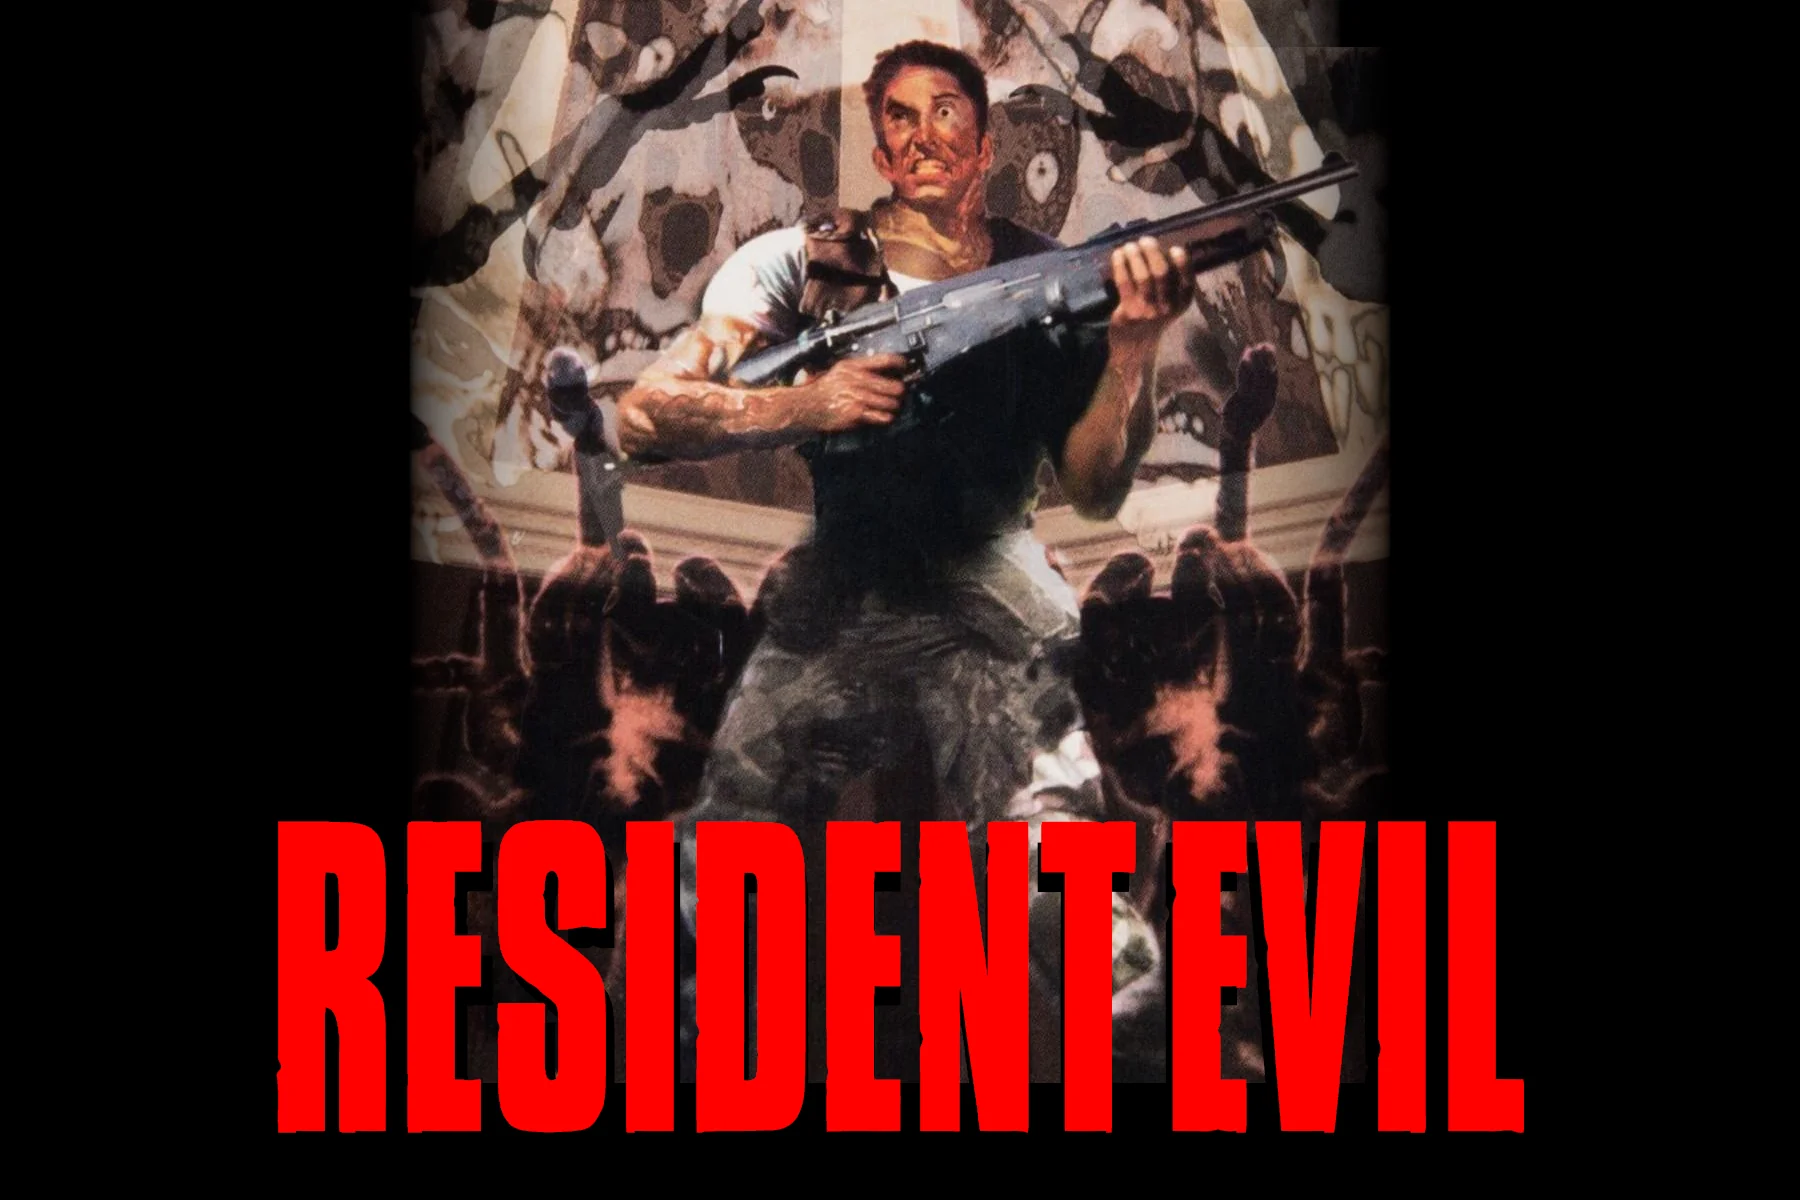
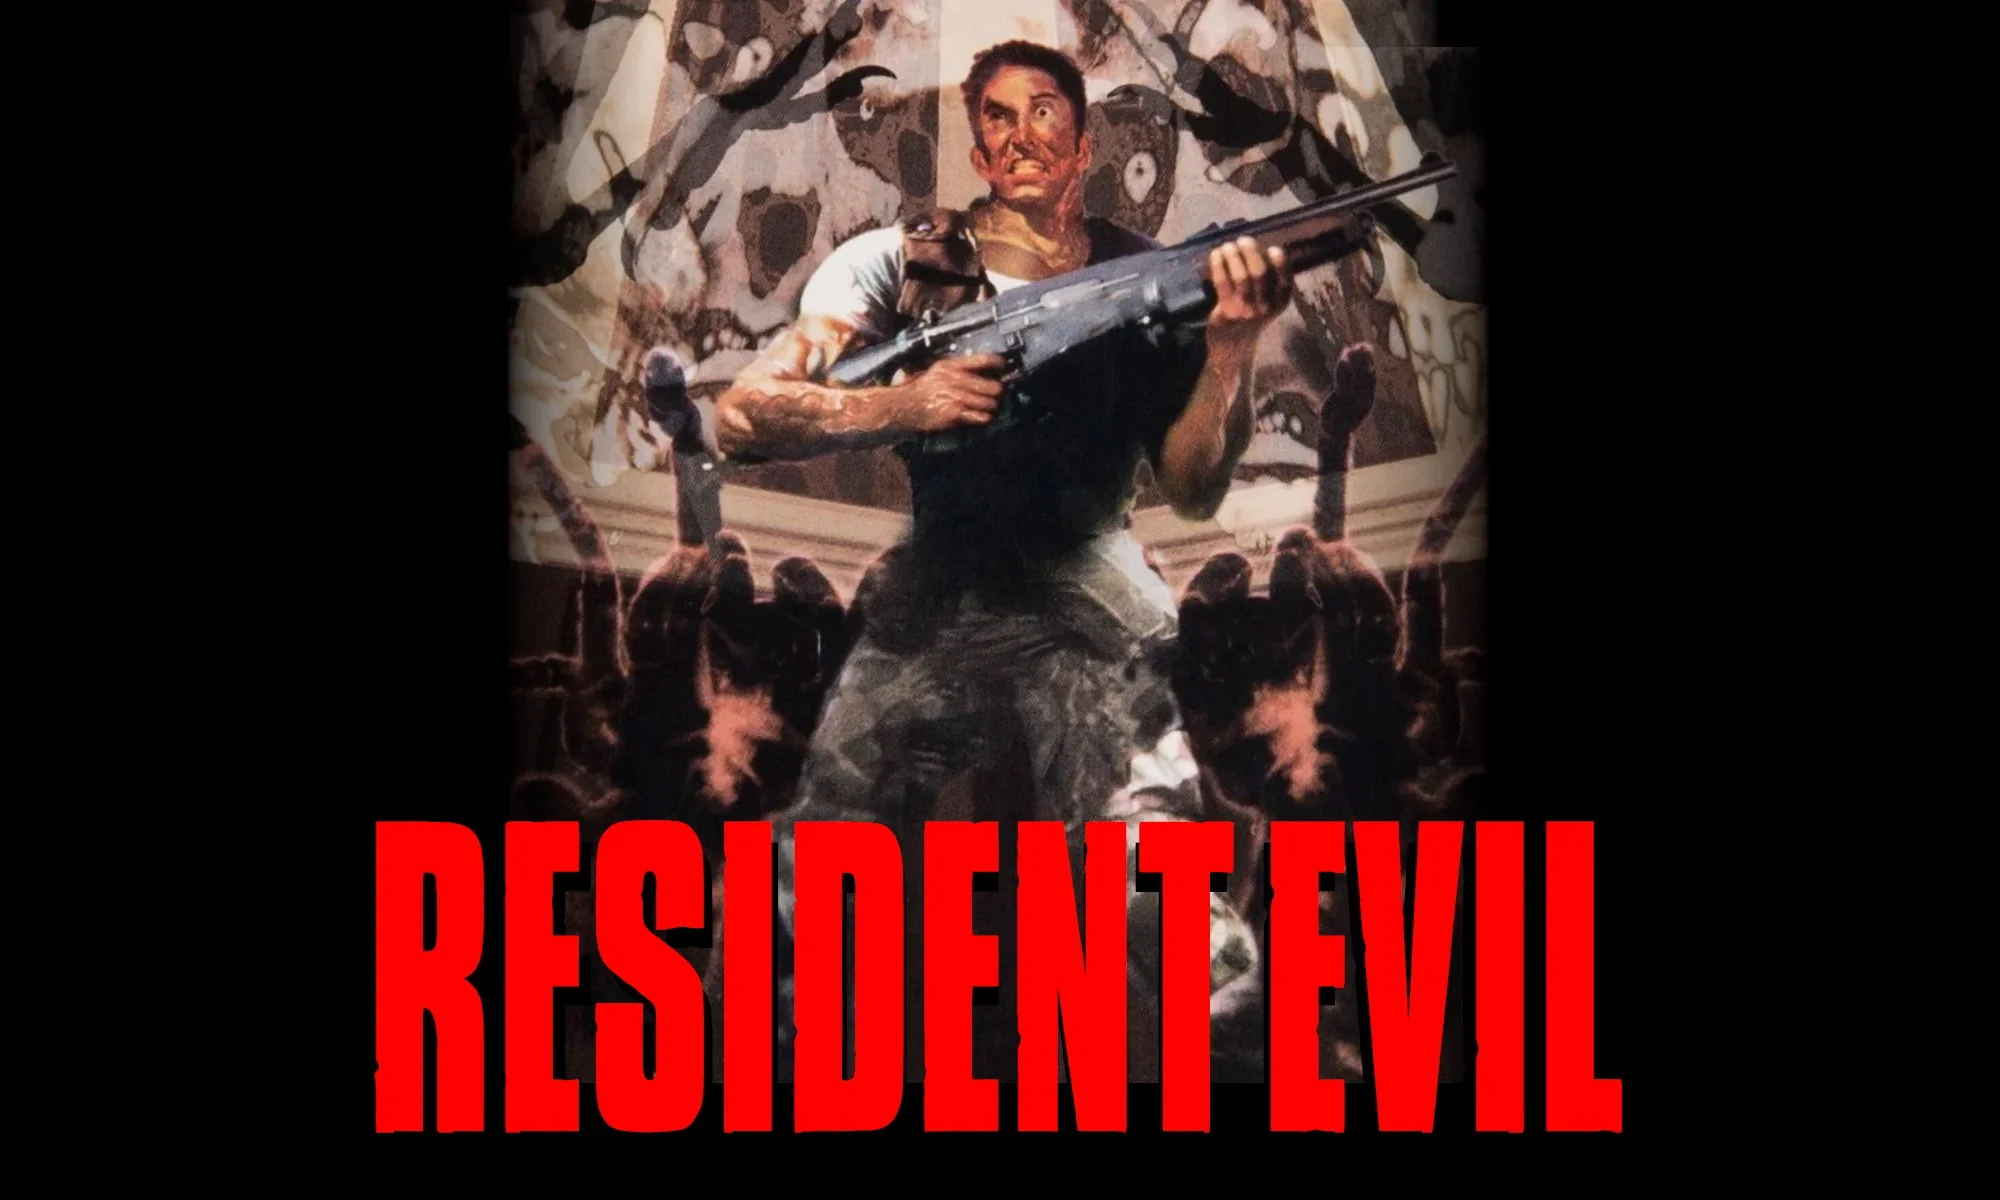
updated openring, added thumbnail

Changed region(s): [[0.1556, 0.0, 0.8711, 0.9558]]

diff --git a/_includes/out.html b/_includes/out.html
@@ -4,6 +4,15 @@
     
     <li class="post">
         <span class="post-title">
+		<a href="https://robert.winter.ink/hiring-a-200-hammer/" target="_blank" rel="noopener">Hiring a $200 Hammer</a><br>
+          <span class="post-author">via Dr Robert N. Winter</span>
+        </span>
+	<span class="post-date"><time datetime="2026-04-13 07:30:34 &#43;0000 GMT">Apr 13</time></span>
+    </li>
+    
+    
+    <li class="post">
+        <span class="post-title">
 		<a href="https://benjaminhollon.com/weeknotes/2026-W15/" target="_blank" rel="noopener">Weeknotes: W15, 2026</a><br>
           <span class="post-author">via Benjamin Hollon</span>
         </span>
@@ -26,15 +35,6 @@
           <span class="post-author">via Discard Pile</span>
         </span>
 	<span class="post-date"><time datetime="2026-04-12 17:34:17 &#43;0000 UTC">Apr 12</time></span>
-    </li>
-    
-    
-    <li class="post">
-        <span class="post-title">
-		<a href="https://kevquirk.com/adding-a-book-editor-to-my-pure-blog-site" target="_blank" rel="noopener">Adding a Book Editor to My Pure Blog Site</a><br>
-          <span class="post-author">via Kev Quirk</span>
-        </span>
-	<span class="post-date"><time datetime="2026-04-12 14:08:00 &#43;0100 &#43;0100">Apr 12</time></span>
     </li>
     
     

diff --git a/_posts/2026-04-12-resident-evil.md b/_posts/2026-04-12-resident-evil.md
@@ -1,30 +1,32 @@
 ---
 title: Resident Evil (1996)
 header: Resident Evil (1996)
-description: My review for the mother of the Survival Horror genre
+description: My review for the game that brought the Survival Horror genre to the spotlight, kickstarting one of gaming's most iconic franchises.
 tags: review game
 permalink: /blog/resident-evil/
 layout: post
 date: 2026-04-12 22:50:00 -0600
+updated: 2026-04-13 05:50:00 -0600
 host: fosstodon.org
 username: joel
 com_id: 116395706084146606
+image: 'assets/img/blogs/2026-04-12-re1-cover.webp'
 ---
 
 A game originally released in 1996, the first to ever use the term "survival horror" to refer to itself. This is was the entryway for a whole generation into a genre that has continued to be relevant to this day, thanks to the franchise's return to its roots, from RE7 to the remakes, and its latest title, Resident Evil Requiem.
 
 When I played [RE2](/blog/resident-evil-2/), I thought going to the original may be kind of a drag, that I would have more difficulty getting used to it, that it would be clumsier, unfair, and outdated.
 
-I heard everywhere that *Resident Evil* for the PS1 was not worth playing when the Remake for it---originally released on the Game Cube---exists. Most people said it was too archaic and not fun at all in comparison.
+I heard everywhere that *Resident Evil* for the PS1 was not worth playing when the Remake for it---originally released on the Game Cube---exists. Most people said it was too archaic and not as fun in comparison.
 
 That was not my experience at all.
 
 You should be aware though, that I'm someone who---thanks to the sequel---is completely on board with prerrendered backgrounds, fixed camera angles and tank controls. I completed RE2 and have never even touched RE4 or anything after it. So, giving this game a try for the first time, I have to say I had a great time, so, here's my review for it!
 
-{% include img.html image='/assets/img/blogs/2026-04-12-re1-cover.png' caption='Artwork from the game cover' %}
+{% include img.html image='/assets/img/blogs/2026-04-12-re1-cover.webp' caption='Artwork from the game cover' %}
 
 
-Everyone is aware of the Zombie-apocalypse trope by now, popularized in the late 60s by Romero's *Night of the Living Dead*---a fantastic film that holds up well even today---which became franchise that explored different facets of the idea.
+Everyone is aware of the Zombie-apocalypse trope by now, popularized in the late 60s by Romero's *Night of the Living Dead*---a fantastic film that holds up well even today---which became a franchise of its own, and explored different facets of the idea.
 
 Those films inspired and changed the landscape in the industry. The film took itself seriously, and it showed. Watching the original, during that [news report explaining the situation](https://youtu.be/aTPhSbn1yNM) with that monotonous news presenter voice so common at the time, the challenge the characters faced was made clear. When the story continued and that ending sequence happened, I could only watch as history was made in cinema.
 
@@ -32,7 +34,7 @@ However, not every horror movie gets to be *Night of the Living Dead*. Even the 
 
 My native language is Spanish, words like "camp" weren't really in my vocabulary for most of my youth. But once you learn what they mean, you just know it when you see it. 
 
-This game pretty much let's you live through an 80s horror movie, and it delivers. Although it's relevant due to its unique setting and memorable characters, it's the bad writing and the absolutely horrendous yet charming voice actingh what has made it a cutural icon, and source of memes and references that have stayed with us to this day.
+This game pretty much let's you live through an 80s horror movie, and it delivers. Although it's relevant due to its unique setting and memorable characters, it's the bad writing and the absolutely horrendous yet charming voice acting what has made it a culture icon, and source of memes and references that have stayed with us to this day.
 
 {% include img.html image='/assets/img/blogs/2026-04-12-re1.png' caption='The survivors of your team entering the mansion, Jill, Barry, and Albert Wesker' %}
 
@@ -82,7 +84,7 @@ The back and forth in this game is quite big, some puzzles take place across mul
 
 **The bosses aren't very good**, lackluster when it comes to battle design---you only need to move to some good location and shot away until it dies---however, due to the status of the game, they are memorable as set pieces, and often move the plot forward in interesting ways. For example, you can end up quite hurt, with some character taking you to another location to heal you; or the way to the boss can contain certain puzzle elements beforehand, to make the eventual battle easier.
 
-As the story continues, there will be plenty of **encounters with different characters of the game**, depending on the who you play as. These are in-game cutscenes, and I need to say, as cringe and badly acted as they are, I always found them rather charming, and it was nice to always get a new sense of direction, or a new useful weapon, or a plot twist here and there. Sometimes, the game atmosphere was rather tense, or I was low on health. Which makes getting to new rooms rather nerve-wracking at first, so I was always glad to see a cutscene that made things more chill.
+As the story continues, there will be plenty of **encounters with different characters of the game**, depending on who you play as. These are in-game cutscenes, and I need to say, as cringe and badly acted as they are, I always found them rather charming, and it was nice to always get a new sense of direction, or a new useful weapon, or a plot twist here and there. Sometimes, the game atmosphere was rather tense, or I was low on health. Which makes getting to new rooms rather nerve-wracking at first, so I was always glad to see a cutscene that made things more chill.
 
 {% include img.html image='/assets/img/blogs/2026-04-12-barry-and-jill-find-something-sus.png' caption='Barry and Jill find something sus' %}
 
@@ -90,19 +92,19 @@ A cozy cutscene is nice, but there is nothing quite like finally hearing that [s
 
 Honestly though, **all the music and ambiance in the game is stunning**. There's plenty of tracks for different rooms and sections, as well as action moments, reveals and similar, all of it is very well done and maintains the atmosphere perfectly. So long as you are not playing the [Dual Shock's Director Cut](https://youtu.be/iJYvCHm3Ov4), or that there's not some cheesy dialogue happening at the same time.
 
-Things get real creepy with the **audio design** as well, ever step, every grunt, the sounds of the water flowing and the dogs howling, I can't praise it enough. Also the effects when moving on the game's inventory/map/status screen is just as satisfying. The doors opening and closing, the screesh of an old door, the elevator going up and down. The sound department of this game did wonders, and thanks to the PS1's usage of CDs instead of cartridges, the quality is top notch. The sounds of the guns shooting and reloading is also a pleasure.
+Things get real creepy with the **audio design** as well, every step, every grunt, the sounds of the water flowing and the dogs howling, I can't praise it enough. Also the effects when moving on the game's inventory/map/status screen is just as satisfying. The doors opening and closing, the screech of an old door, the elevator going up and down. The sound department of this game did wonders, and thanks to the PS1's usage of CDs instead of cartridges, the quality is top notch. The sounds of the guns shooting and reloading is also a pleasure.
 
-**Animation work** is also rather good, even if it lacks some of the goodies that RE2 introduced, like character animations to indicate health status. It's still pretty good and the models are awesome for the time. The way all the different items come with 3D renders you can inspect is also appreciated, every gun, herb, key and the like has a nice amount of detail to it.
+**Animation work** is also remarkable, even if it lacks some of the polish RE2 introduced, like character animations to indicate health status. It's still pretty good and the models are awesome for the time. The way all the different items come with 3D renders you can inspect is also appreciated, every gun, herb, key and the like has a nice amount of detail to it.
 
-There are other 3D models during game besides the characters, like interactable objects and items, making them easy to notice against prerrendered backgrounds (which are unfortunately pretty low-res for modern screens, but still charming). This is a useful to solve block-style puzzles---like moving a shelf to reach something behind it, or finding green plants to restore health.
+There are other 3D models during game besides the characters, like interactable objects and items, making them easy to notice against prerrendered backgrounds (which are unfortunately pretty low-res for modern screens, but still charming). This is useful to solve block-style puzzles---like moving a shelf to reach something behind it, or finding green plants to restore health.
 
 {% include img.html image='/assets/img/blogs/2026-04-12-a-giant-boulder-is-a-sign-of-trouble-for-jill.png' caption='A giant boulder is a sign of trouble for Jill' %}
 
 All in all, as cheesy as all the dialogue is, as arcane as tank controls may seem, as slow as it may be to aim guns as Jill. Everything is just part of the course. **Every obstacle** or hiccup, is only one more **challenge for your survival inside this mansion**. There are plenty of resources for Jill to take, the amount of enemies is more than manageable, and there aren't that many bosses in the first place.
 
-This game, like its successor, is pretty much of a 3D Metroidvania game with zombies, and I am extremely amazed at how well it still runs. The gameplay from start to finish was a pleasure to experience. The utility of most items is made clear rather well, and my insticts started to develop soon enough. Judging when an item may make sense to keep or not, or when it was better to backtrack to an item box when I could feel that I was about to get a lot of items soon became second nature somehow.
+This game, like its successor, is pretty much a 3D Metroidvania game with zombies, and I am extremely amazed at how well it still runs. The gameplay from start to finish was a pleasure to experience. The utility of most items is made clear rather well, and my instincts started to develop soon enough. Judging when an item may make sense to keep or not, or when it was better to backtrack to an item box when I could feel that I was about to get a lot of items soon became second nature somehow.
 
-Resident Evil gives you all the tools you need, **the designers really want you to beat it**, it is only a matter of understading its mechanics and everything will became clear. I am actually looking for a second playthrough of this one as Chris---even though I hear is much tougher---because the game has taught me all I need, and it trusts me so much. No tutorials, no GUI other than the status screen that gets out of the way when you don't use it. It is a rather cinematic experience.
+Resident Evil gives you all the tools you need, **the designers really want you to beat it**, it is only a matter of understading its mechanics and everything will become clear. I am looking forward to a second playthrough of this one as Chris---even though I hear is much tougher---because the game has taught me all I need, and it trusts me so much. No tutorials, no GUI other than the status screen that gets out of the way when you don't use it. It is a rather cinematic experience.
 
 {% include img.html image='/assets/img/blogs/2026-04-12-jill-and-barry-discover-something-sus-again.png' caption='Jill and Barry find something sus again' %}
 
